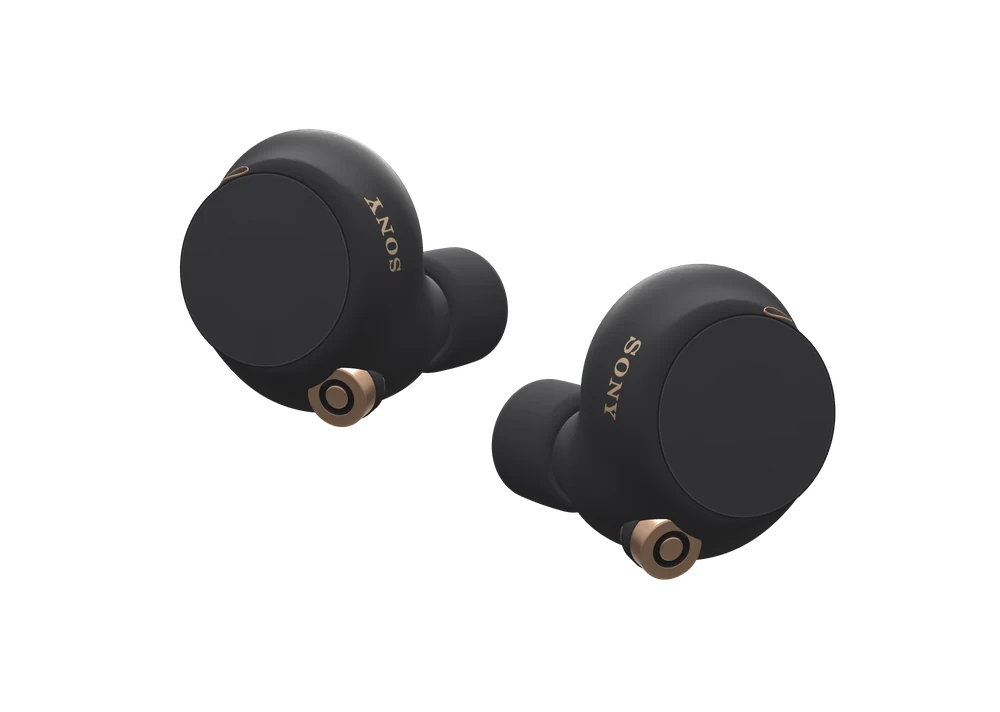
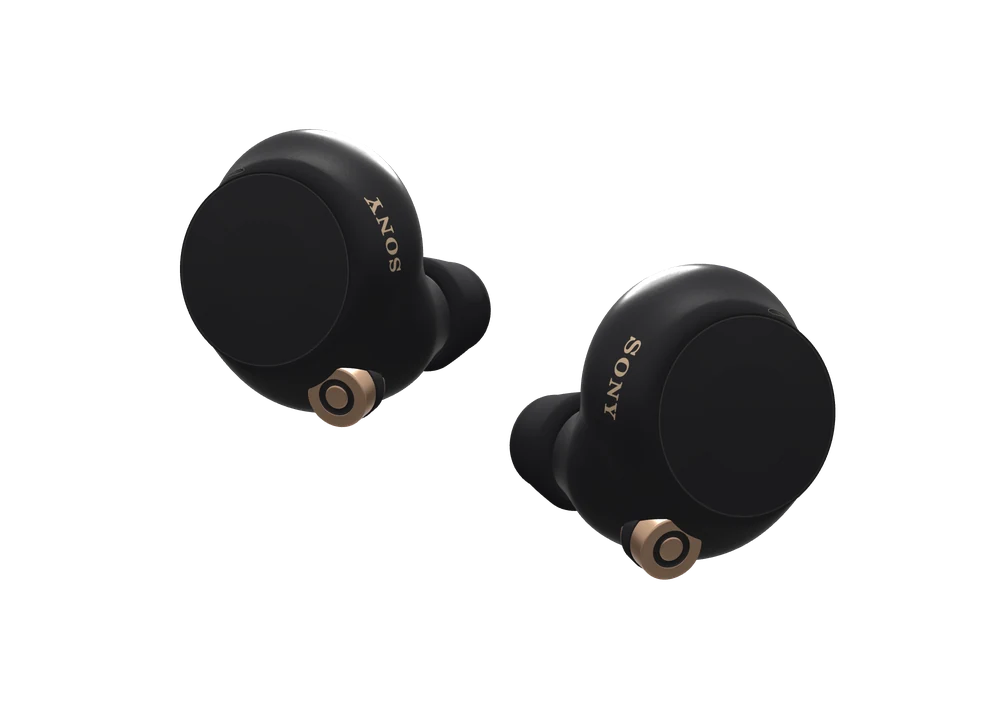
Refine WF-1000XM4 materials, multipoint 2.1.0 sim, Connection gating, and looping clips

diff --git a/app/src/main/assets/hero3d/wf1000xm4.js b/app/src/main/assets/hero3d/wf1000xm4.js
@@ -14,30 +14,32 @@
 
 const FINISHES = {
   black: {
-    shell: [0.036, 0.036, 0.039],
-    face: [0.044, 0.044, 0.048],
-    tip: [0.042, 0.042, 0.046],
+    shell: [0.011, 0.011, 0.013],
+    face: [0.015, 0.015, 0.017],
+    tip: [0.013, 0.013, 0.015],
     metal: [0.77, 0.50, 0.34],
+    slitRim: [0.16, 0.12, 0.09],
     metalIn: [0.008, 0.008, 0.009],
     print: [0.75, 0.53, 0.33],
-    caseShell: [0.038, 0.038, 0.041],
-    caseInner: [0.022, 0.022, 0.024],
+    caseShell: [0.012, 0.012, 0.014],
+    caseInner: [0.008, 0.008, 0.009],
     casePrint: [0.34, 0.32, 0.30],
     lift: [0, 0, 0],
-    seatShade: [0.72, 0.72, 0.72],
+    seatShade: [0.78, 0.78, 0.78],
     sparkle: [0, 0, 0],
   },
   silver: {
-    shell: [0.585, 0.565, 0.505],
-    face: [0.660, 0.638, 0.570],
-    tip: [0.460, 0.448, 0.415],
+    shell: [0.50, 0.48, 0.43],
+    face: [0.56, 0.54, 0.48],
+    tip: [0.36, 0.35, 0.32],
     metal: [0.75, 0.63, 0.36],
+    slitRim: [0.38, 0.35, 0.28],
     metalIn: [0.018, 0.018, 0.016],
     print: [0.64, 0.52, 0.28],
-    caseShell: [0.605, 0.585, 0.522],
-    caseInner: [0.495, 0.478, 0.425],
+    caseShell: [0.52, 0.50, 0.45],
+    caseInner: [0.42, 0.40, 0.36],
     casePrint: [0.58, 0.48, 0.28],
-    lift: [0.025, 0.025, 0.025],
+    lift: [0, 0, 0],
     seatShade: [0.88, 0.88, 0.88],
     sparkle: [1, 1, 1],
   },
@@ -55,9 +57,9 @@ const BUD0 = {
   nozzle: { from: [0.24, -0.25, -0.47], dir: [0.24, 0.02, -1.0], len: 0.28, r0: 0.23, r1: 0.15 },
   blend: { chin: 0.10, back: 0.14, neck: 0.12, face: 0.03 },
   core: [0.18, -0.20, -0.38],
-  tip: { at: 0.22, len: 0.34, r: 0.235, rBack: 0.045, rFront: 0.075, hole: 0.075, holeDepth: 0.06 },
+  tip: { at: 0.22, len: 0.31, r: 0.228, rBack: 0.042, rFront: 0.095, hole: 0.072, holeDepth: 0.06 },
   boss: { at: [0.30, -0.44, -0.04], dir: [0.06, -0.14, 1.0], r: 0.118, len: 0.175, ring: [0.60, 0.38], collar: 0.006 },
-  slit: { th: 120, rad: 0.374, len: 0.145, w: 0.032, rim: 0.007 },
+  slit: { th: 120, rad: 0.374, len: 0.115, w: 0.024, rim: 0.0035 },
   logo: { y0: 0.03, y1: 0.30, z: -0.16, h: 0.075 },
   inner: {
     contacts: [[0.02, -0.34], [0.09, -0.39], [0.16, -0.33]],
@@ -133,7 +135,7 @@ function makeResinGrainTextures(THREE, maxAniso = 4) {
   if (typeof document === 'undefined') {
     const data = new Uint8Array(size * size * 4);
     for (let i = 0; i < size * size; i++) {
-      const v = Math.round((0.72 + (hash2d(i % size, Math.floor(i / size)) - 0.5) * 0.16) * 255);
+      const v = Math.round((0.50 + (hash2d(i % size, Math.floor(i / size)) - 0.5) * 0.16) * 255);
       data[i * 4] = data[i * 4 + 1] = data[i * 4 + 2] = v;
       data[i * 4 + 3] = 255;
     }
@@ -160,7 +162,7 @@ function makeResinGrainTextures(THREE, maxAniso = 4) {
       const fine = hash2d(x, y);
       const val = 0.5 * cell + 0.5 * fine;
       const bByte = Math.round((0.40 + val * 0.28) * 255);
-      const rByte = Math.round((0.72 + (1 - val) * 0.18) * 255);
+      const rByte = Math.round((0.50 + (1 - val) * 0.18) * 255);
       const idx = (y * size + x) * 4;
       bImg.data[idx] = bImg.data[idx + 1] = bImg.data[idx + 2] = bByte;
       bImg.data[idx + 3] = 255;
@@ -278,26 +280,26 @@ export function createWF1000XM4(ctx) {
   atlas.minFilter = THREE.LinearMipmapLinearFilter;
   const ATL = { sony: [0.04, 0.03, 0.96, 0.47], markL: [0, 0.5, 0.25, 1], markR: [0.25, 0.5, 0.5, 1] };
 
-  // Materials: recycled resin PBR with clearcoat = 0, matte roughness >= 0.72.
+  // Materials: satin-matte recycled resin PBR (clearcoat = 0 avoids flat case-lid studio glare).
   const grain = makeResinGrainTextures(THREE, 4);
   const M = {};
   const P = (o) => new THREE.MeshPhysicalMaterial(o);
-  const resinMat = (roughness, sheen = 0.08) => P({
+  const resinMat = (roughness, sheen = 0.02) => P({
     roughness,
     metalness: 0,
     roughnessMap: grain.rough,
     bumpMap: grain.bump,
-    bumpScale: 0.0022,
+    bumpScale: 0.0014,
     specularIntensity: 0.42,
     sheen,
     sheenRoughness: 0.85,
-    sheenColor: new THREE.Color(0.08, 0.08, 0.08),
+    sheenColor: new THREE.Color(0.03, 0.03, 0.03),
     clearcoat: 0,
   });
 
-  M.shell = resinMat(0.78, 0.06);
-  M.shellCase = resinMat(0.84, 0.05);
-  M.face = patched(resinMat(0.72, 0.08), 'xm4-face', { uSparkle: { value: 0 } }, {
+  M.shell = resinMat(0.56, 0.02);
+  M.shellCase = resinMat(0.64, 0.02);
+  M.face = patched(resinMat(0.48, 0.03), 'xm4-face', { uSparkle: { value: 0 } }, {
     pars: 'uniform float uSparkle;\nfloat xm4Hash(vec3 p) { p = fract(p * 0.3183099 + 0.1); p *= 17.0; return fract(p.x * p.y * p.z * (p.x + p.y + p.z)); }\n',
     after: {
       color_fragment: `
@@ -308,11 +310,12 @@ export function createWF1000XM4(ctx) {
 }`,
     },
   });
-  M.faceCase = resinMat(0.80, 0.06);
+  M.faceCase = resinMat(0.56, 0.02);
   M.discEdge = P({ roughness: 0.42, metalness: 0, specularIntensity: 0.55, clearcoat: 0 });
   M.groove = P({ roughness: 0.90, metalness: 0, clearcoat: 0 });
 
   M.metal = P({ metalness: 1, roughness: 0.28, clearcoat: 0 });
+  M.slitRim = P({ metalness: 0.65, roughness: 0.40, clearcoat: 0 });
   M.metalFace = P({ metalness: 1, roughness: 0.22, clearcoat: 0 });
   M.metalIn = P({ roughness: 0.65, metalness: 0, clearcoat: 0 });
   M.collar = P({ roughness: 0.78, metalness: 0, clearcoat: 0 });
@@ -386,12 +389,12 @@ export function createWF1000XM4(ctx) {
   })();
 
   M.tip = patched(P({
-    roughness: 0.90,
+    roughness: 0.84,
     metalness: 0,
     specularIntensity: 0.35,
-    sheen: 0.85,
-    sheenRoughness: 0.65,
-    sheenColor: new THREE.Color(0.09, 0.09, 0.09),
+    sheen: 0.22,
+    sheenRoughness: 0.72,
+    sheenColor: new THREE.Color(0.04, 0.04, 0.04),
     clearcoat: 0,
   }), 'xm4-foam', { uTipO: { value: tipAxis.o }, uTipD: { value: tipAxis.d } }, {
     pars: `uniform vec3 uTipO, uTipD;
@@ -428,12 +431,23 @@ float xm4N(vec3 p) {
     BUD.inner.sensorH * BH,
   );
 
-  // Case materials (opaque by default -> clean early-Z rejection).
-  M.caseShell = resinMat(0.76, 0.06);
-  M.caseRim = P({ roughness: 0.80, metalness: 0, clearcoat: 0 });
-  M.caseBaseRim = resinMat(0.76, 0.05);
-  M.caseInner = resinMat(0.84, 0.04);
-  M.casePocket = resinMat(0.88, 0.03);
+  // Case materials (opaque by default; higher true roughness avoids ceiling-light blowout on the flat lid).
+  const caseMat = (roughness) => P({
+    roughness,
+    metalness: 0,
+    bumpMap: grain.bump,
+    bumpScale: 0.0014,
+    specularIntensity: 0.18,
+    sheen: 0.02,
+    sheenRoughness: 0.85,
+    sheenColor: new THREE.Color(0.03, 0.03, 0.03),
+    clearcoat: 0,
+  });
+  M.caseShell = caseMat(0.84);
+  M.caseRim = P({ roughness: 0.78, metalness: 0, clearcoat: 0 });
+  M.caseBaseRim = caseMat(0.84);
+  M.caseInner = caseMat(0.88);
+  M.casePocket = caseMat(0.90);
   M.caseRecess = P({ color: lin([0.012, 0.012, 0.014]), roughness: 0.88, metalness: 0, clearcoat: 0 });
   M.casePrint = P({
     roughness: 0.28,
@@ -691,11 +705,13 @@ float xm4N(vec3 p) {
     }
     for (let k = 1; k <= 6; k++) {
       const t = k / 7;
-      prof.push([R + 0.012 * R * Math.sin(Math.PI * t), rb + (L - rb - rf) * t]);
+      const rAt = R * (1 - 0.20 * t);
+      prof.push([rAt + 0.008 * R * Math.sin(Math.PI * t), rb + (L - rb - rf) * t]);
     }
+    const rTip = R * 0.80;
     for (let k = 0; k <= 10; k++) {
       const a = (k / 10) * (Math.PI / 2);
-      prof.push([R - rf + rf * Math.cos(a), L - rf + rf * Math.sin(a)]);
+      prof.push([rTip - rf + rf * Math.cos(a), L - rf + rf * Math.sin(a)]);
     }
     prof.push([ro + 0.006 * BH, L - 0.002 * BH]);
     prof.push([ro, L - 0.010 * BH]);
@@ -752,8 +768,8 @@ float xm4N(vec3 p) {
       const idx = [];
       const rings = [
         [rxOut, ryOut, hOut],
-        [rxOut * 0.96, ryOut * 0.96, hOut + 0.004 * BH],
-        [rxIn * 1.04, ryIn * 1.04, hOut + 0.004 * BH],
+        [rxOut * 0.96, ryOut * 0.96, hOut + 0.0015 * BH],
+        [rxIn * 1.04, ryIn * 1.04, hOut + 0.0015 * BH],
         [rxIn, ryIn, hIn],
       ];
       for (const [rx, ry, h] of rings) {
@@ -963,7 +979,7 @@ float xm4N(vec3 p) {
       g.add(Object.assign(new THREE.Mesh(geo, mat), { name }));
     }
 
-    g.add(Object.assign(new THREE.Mesh(GEO.slit.rim, M.metal), { name: 'X4_SlitRim' }));
+    g.add(Object.assign(new THREE.Mesh(GEO.slit.rim, M.slitRim), { name: 'X4_SlitRim' }));
     g.add(Object.assign(new THREE.Mesh(GEO.slit.core, M.slitCore), { name: 'X4_Slit' }));
     const logo = Object.assign(new THREE.Mesh(mirror ? GEO.logoL : GEO.logoR, M.print), { name: 'X4_Logo' });
     g.add(logo);
@@ -1517,6 +1533,7 @@ float xm4N(vec3 p) {
     M.groove.color.setRGB(f.shell[0] * 0.35, f.shell[1] * 0.35, f.shell[2] * 0.35);
     M.collar.color.setRGB(f.shell[0] * 0.72, f.shell[1] * 0.72, f.shell[2] * 0.72);
     for (const m of [M.metal, M.metalFace, M.contact]) set(m.color, f.metal);
+    set(M.slitRim.color, f.slitRim);
     set(M.metalIn.color, f.metalIn);
     set(M.print.color, f.print);
     set(M.tip.color, f.tip);

diff --git a/app/src/main/java/com/peyi/sonypodsbattery/Wf1000xm4Profile.kt b/app/src/main/java/com/peyi/sonypodsbattery/Wf1000xm4Profile.kt
@@ -1,14 +1,16 @@
 package com.peyi.sonypodsbattery
 
 /**
- * Simulated WF-1000XM4 earbuds on firmware 1.4.2, from recorded replies (Gadgetbridge issue captures;
- * docs/protocol/wf1000xm4_profile.md section 8). The earbuds' address and IDs are made up.
+ * Simulated WF-1000XM4 earbuds on firmware 2.1.0, built from recorded firmware 1.4.2 replies
+ * (Gadgetbridge issue captures; docs/protocol/wf1000xm4_profile.md section 8) plus Sound Connect's
+ * 2.x multipoint general setting and paired-device table records. The earbuds' address and IDs are
+ * made up.
  *
  * What differs from the WF-1000XM5: noise control on type 0x15 with the wind byte, Speak-to-Chat on
  * type 02 with voice focus, touch presets 00 / 20 / 10 / ff (noise control is 00, and Volume Control
  * is a whole-sensor preset), voice prompts without volume (T2 0x41), sound quality mode on type 00,
- * and no LE Audio, multipoint, sidetone, head gestures or Safe Listening. No change asks for a
- * confirmation on 1.4.2.
+ * and no LE Audio, sidetone, head gestures or Safe Listening. Multipoint reconnects and asks for
+ * confirmation (0x07); noise control and other settings do not ask on 1.4.2.
  */
 internal object Wf1000xm4Profile {
     /** [color]: Sony's colour code (0x01 Black, 0x03 Platinum Silver). */
@@ -18,11 +20,11 @@ internal object Wf1000xm4Profile {
             12 01 00 01 00 00 00 00 00
             12 03 00 05 11 30 32 3a 30 30 3a 30 30 3a 30 30 3a 30 30 3a 34 30
             12 05 01 0a 57 46 2d 31 30 30 30 58 4d 34
-            12 05 02 05 31 2e 34 2e 32
+            12 05 02 05 32 2e 31 2e 30
             12 05 03 30 ${"%02x".format(color)}
             12 05 04 05 10 01 40 80 60
-            12 07 00 1b 10 ff 12 ff 13 ff 14 ff 23 ff 25 15 11 ff 27 ff 29 ff 2a ff 92 ff 32 1a 50 07 68 03 70 01 90 ff a1 08 c1 ff e1 09 e2 0a f1 17 f2 05 f3 0f f4 0d 93 ff f6 14 f9 1b
-            14 07 00 01 41 18
+            12 07 00 1c 10 ff 12 ff 13 ff 14 ff 23 ff 25 15 11 ff 27 ff 29 ff 2a ff 92 ff 32 1a 50 07 68 03 70 01 90 ff a1 08 c1 ff d1 20 e1 09 e2 0a f1 17 f2 05 f3 0f f4 0d 93 ff f6 14 f9 1b
+            14 07 00 02 41 18 32 ff
             12 13 01 01 01
             12 13 02 10
             12 13 03 02 01
@@ -66,10 +68,25 @@ internal object Wf1000xm4Profile {
             12 a7 20 0f
             12 a7 21 06
             12 93 03 00
+            12 d1 d1 00 01 12 4d 55 4c 54 49 50 4f 49 4e 54 5f 53 45 54 54 49 4e 47 00
+            12 d3 d1 00
+            12 d7 d1 00 01
             14 41 01 03 00 00 00 01 0f 01 02 03 04 05 06 07 08 09 0a 0b 0d 0f 10 f0
             14 43 01 00 00
             14 47 01 00 01
+            14 31 00 08 02 00
+            14 31 02 08 02 00
+            14 33 00 00 00
+            14 37 00 01 41 41 3a 42 42 3a 43 43 3a 44 44 3a 45 45 3a 30 31 01 05 50 69 78 65 6c 01
         """,
+        confirm = { _, table, p ->
+            when {
+                table != SonyProtocol.DATA_MDR || p.size < 2 -> null
+                // Connect to Two Devices reconnects the earbuds, so they ask first.
+                SimProfiles.u(p[0]) == 0xd8 && SimProfiles.u(p[1]) == 0xd1 -> 0x07
+                else -> null
+            }
+        },
         onSet = { state, table, p ->
             // Automatic wind noise reduction: the app writes 03, the earbuds report 05 (recorded).
             if (table == SonyProtocol.DATA_MDR && p.size >= 8 && SimProfiles.u(p[0]) == 0x68 && SimProfiles.u(p[1]) == 0x15 && SimProfiles.u(p[5]) == 0x03) {

diff --git a/app/src/test/java/com/peyi/sonypodsbattery/SimulatedWf1000xm4Test.kt b/app/src/test/java/com/peyi/sonypodsbattery/SimulatedWf1000xm4Test.kt
@@ -115,11 +115,25 @@ class SimulatedWf1000xm4Test {
         assertEquals(false, r.promptsOn)
     }
 
+    @Test fun `multipoint connects two devices and lists paired devices`() {
+        val (sim, s) = session()
+        var r = SonyFeatures.readAll(s, DeviceSettings())
+        assertEquals(setOf("MULTIPOINT_SETTING"), r.general!!.map { it.key }.toSet())
+        assertEquals(false, r.general!!.first { it.key == "MULTIPOINT_SETTING" }.on)
+        r = SonyFeatures.setGeneral(s, r, 0xd1, on = true)
+        assertEquals(true, r.general!!.first { it.key == "MULTIPOINT_SETTING" }.on)
+        assertTrue(sim.sent("98 00 07 01"))
+        val paired = Multipoint.read(s)!!
+        assertEquals(1, paired.list.size)
+        assertEquals("Pixel", paired.list.first().name)
+        assertEquals("AA:BB:CC:DD:EE:01", paired.list.first().address)
+    }
+
     @Test fun `full read shows what the earbuds have and nothing they lack`() {
         val (sim, s) = session(color = 0x03)
         val r = SonyFeatures.readAll(s, DeviceSettings())
         assertEquals("WF-1000XM4", r.modelName)
-        assertEquals("1.4.2", r.firmware)
+        assertEquals("2.1.0", r.firmware)
         assertEquals(0x03, r.colorCode)
         assertEquals("LDAC", r.codec)
         assertEquals(true, r.dseeOn)

diff --git a/app/src/main/java/com/peyi/sonypodsbattery/SunpodsUi.kt b/app/src/main/java/com/peyi/sonypodsbattery/SunpodsUi.kt
@@ -1921,12 +1921,15 @@ private fun ControlsScreen(settings: DeviceSettings, vm: SunpodsViewModel) {
             if (settings.promptsOn != null || settings.promptVolume != null) add { PageRow(Icons.Rounded.Campaign, Page.VOICE_PROMPTS, onOff(settings.promptsOn)) }
         }
     )
+    val hasConnection = settings.general.orEmpty().isNotEmpty() || settings.autoSwitch != null || DemoMode.on(context)
     Group(
         null,
-        rows = listOf(
-            { PageRow(Icons.Rounded.Call, Page.CALLS, if (settings.leModeSupported == true) (if (le) "LE Audio" else "Classic") else null) },
-            { PageRow(Icons.Rounded.Bluetooth, Page.CONNECTION, when { le -> "One device"; multipoint == true -> "Two devices"; multipoint == false -> "One device"; else -> null }) }
-        )
+        rows = buildList {
+            add { PageRow(Icons.Rounded.Call, Page.CALLS, if (settings.leModeSupported == true) (if (le) "LE Audio" else "Classic") else null) }
+            if (hasConnection) {
+                add { PageRow(Icons.Rounded.Bluetooth, Page.CONNECTION, when { le -> "One device"; multipoint == true -> "Two devices"; multipoint == false -> "One device"; else -> null }) }
+            }
+        }
     )
 }
 

diff --git a/app/src/main/java/com/peyi/sonypodsbattery/Onboarding.kt b/app/src/main/java/com/peyi/sonypodsbattery/Onboarding.kt
@@ -408,6 +408,7 @@ private fun Page(
             Text(body, style = MaterialTheme.typography.bodyLarge, color = colors.onSurfaceVariant, textAlign = TextAlign.Center)
             Spacer(Modifier.height(24.dp))
             content()
+            Spacer(Modifier.height(16.dp))
         }
         if (primary != null) {
             Button(onClick = onPrimary, enabled = primaryEnabled, modifier = Modifier.fillMaxWidth().height(56.dp)) { Text(primary) }
